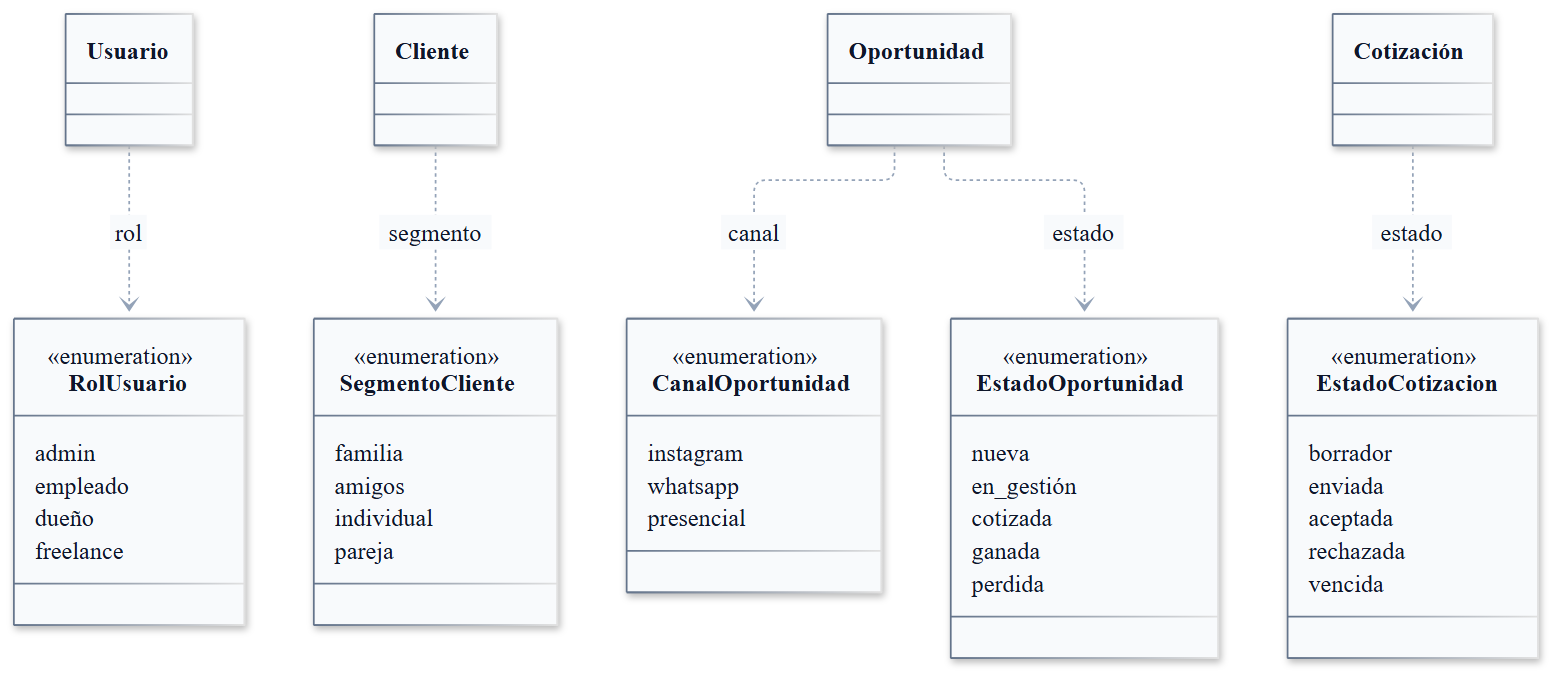
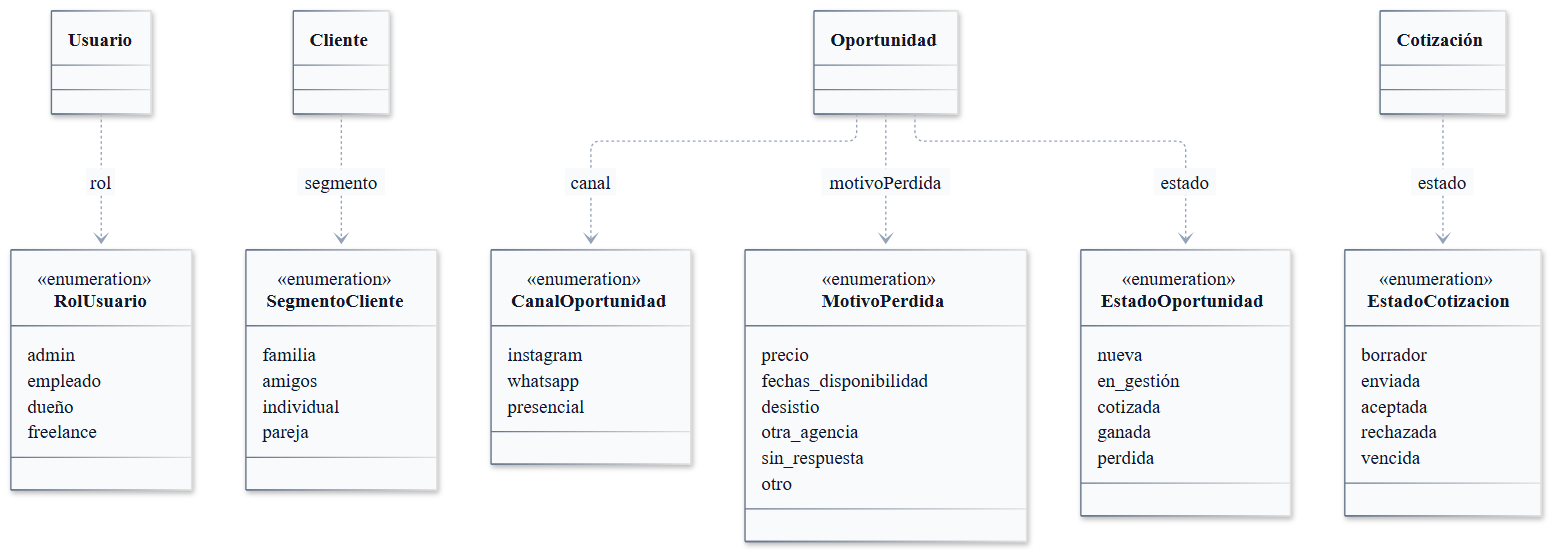
DEC-0013: notas y motivo de pérdida de la oportunidad, motivos de cancelación y de baja de reseña, tramo como origen de alerta

diff --git a/03-Dominio/Diagramas/DGM — Diagrama de clases.md b/03-Dominio/Diagramas/DGM — Diagrama de clases.md
@@ -65,6 +65,9 @@ classDiagram
         +Date fechaHastaTentativa
         +Int pasajeros
         +EstadoOportunidad estado
+        +MotivoPerdida motivoPerdida
+        +String motivoPerdidaDetalle
+        +String notas
     }
     class Cotizacion["Cotización"] {
         +UUID id
@@ -84,6 +87,8 @@ classDiagram
         +CategoriaViaje categoria
         +EstadoViaje estado
         +EstadoViaje estadoPrevio
+        +String motivoCancelacion
+        +Date fechaCancelacion
         +Moneda moneda
         +Decimal precioVenta
         +Decimal costo
@@ -151,6 +156,7 @@ classDiagram
         +String comentario
         +Date fecha
         +EstadoResena estado
+        +String motivoBaja
     }
 
     %% ======== Alertas y redes ========
@@ -202,6 +208,7 @@ classDiagram
     Pago "0..1" --> "0..*" Alerta : vencimiento
     Oportunidad "0..1" --> "0..*" Alerta : insistencia
     Cliente "0..1" --> "0..*" Alerta : recontacto
+    ViajeHotel "0..1" --> "0..*" Alerta : pago a proveedor
 ```
 
 ### Cómo leerlo
@@ -216,7 +223,7 @@ classDiagram
 
 ## Enumeraciones del dominio
 
-Las **19 enumeraciones** son parte del mismo modelo; se muestran en tres bandas agrupadas por módulo para que cada una entre legible en una hoja. La caja de la clase va **sin atributos** (ya están en la vista principal) y cada **dependencia punteada** indica qué atributo usa la enumeración. `Moneda` es la única compartida: la usan [[Viaje]], [[Cotización]] y [[Pago]].
+Las **20 enumeraciones** son parte del mismo modelo; se muestran en tres bandas agrupadas por módulo para que cada una entre legible en una hoja. La caja de la clase va **sin atributos** (ya están en la vista principal) y cada **dependencia punteada** indica qué atributo usa la enumeración. `Moneda` es la única compartida: la usan [[Viaje]], [[Cotización]] y [[Pago]].
 
 ### 1 · CRM y seguridad
 
@@ -264,9 +271,19 @@ classDiagram
         rechazada
         vencida
     }
+    class MotivoPerdida {
+        <<enumeration>>
+        precio
+        fechas_disponibilidad
+        desistio
+        otra_agencia
+        sin_respuesta
+        otro
+    }
     Usuario ..> RolUsuario : rol
     Cliente ..> SegmentoCliente : segmento
     Oportunidad ..> CanalOportunidad : canal
+    Oportunidad ..> MotivoPerdida : motivoPerdida
     Oportunidad ..> EstadoOportunidad : estado
     Cotizacion ..> EstadoCotizacion : estado
 ```
@@ -425,7 +442,7 @@ Se señalaron sin elegir una versión en silencio, según [[CLAUDE|CLAUDE.md#Ord
 
 1. ✅ **`Viaje`–`Pago` = `1..*`** (resuelto 21/09, Nahuel). **Todo `Viaje` tiene al menos un `Pago`.** Vale la nota de [[Viaje]], no el `||--o{` del [[DGM-ER]]: [[CU-07 Confirmar reserva]] es el **único** CU que crea un `Viaje` y encadena [[CU-10 Registrar economía del viaje|CU-10]] y [[CU-11 Definir plan de cuotas|CU-11]] como `<<include>>` (no está completo sin ellos); su postcondición exige el plan cargado, el estado inicial `reservado` se define como *"economía y plan cargados"*, y [[CU-11 Definir plan de cuotas|CU-11]] A2 cubre el mínimo (sin cuotas se crea igual un `Pago` de tipo `saldo` por el total). El hueco entre "se crea el viaje" y "se carga el plan" es **intra-transacción**, no un estado válido del dominio, que es lo que modela un diagrama de clases conceptual. → **Corregir [[DGM-ER]]:** `VIAJE ||--o{ PAGO` pasa a **`VIAJE ||--|{ PAGO`**. La obligatoriedad se hace cumplir en la lógica de aplicación (una FK no puede exigir "al menos una fila hija").
 2. ✅ **`Viaje`–`Alerta` = `0..1` → `0..*`** (resuelto 21/09, Nahuel). La nota de [[Viaje]] dice `1..*`, pero [[Alerta]] admite alertas que **no** cuelgan de un viaje (insistencia sobre [[Oportunidad]], recontacto sobre [[Cliente]], vencimiento sobre [[Pago]], y las `manual` sueltas de [[CU-28 Crear recordatorio manual]]). → **Corregir la nota de [[Viaje]]**.
-3. ✅ **Origen de la `Alerta` en el ER: cuatro FK nullable + CHECK** (resuelto 21/09, Nahuel). El [[DGM-ER]] declaraba **un solo** origen (`VIAJE ||--o{ ALERTA`), así que no había dónde guardar de qué [[Oportunidad]], [[Pago]] o [[Cliente]] venía una alerta. Se optó por que `ALERTA` lleve `viaje_id`, `pago_id`, `oportunidad_id` y `cliente_id` **nullable**, con un **CHECK de que a lo sumo una esté cargada** (ninguna si es `manual` suelta). Se descartó el origen polimórfico (`origen_tipo` + `origen_id`) porque **pierde la FK** y deja la integridad en la aplicación; con 4 orígenes cerrados, la tabla más ancha es un costo menor frente a la integridad referencial real de PostgreSQL. → **Ya propagado al [[DGM-ER]]**.
+3. ✅ **Origen de la `Alerta` en el ER: cuatro FK nullable + CHECK** (resuelto 21/09, Nahuel). El [[DGM-ER]] declaraba **un solo** origen (`VIAJE ||--o{ ALERTA`), así que no había dónde guardar de qué [[Oportunidad]], [[Pago]] o [[Cliente]] venía una alerta. Se optó por que `ALERTA` lleve `viaje_id`, `pago_id`, `oportunidad_id` y `cliente_id` **nullable**, con un **CHECK de que a lo sumo una esté cargada** (ninguna si es `manual` suelta). Se descartó el origen polimórfico (`origen_tipo` + `origen_id`) porque **pierde la FK** y deja la integridad en la aplicación; con 4 orígenes cerrados, la tabla más ancha es un costo menor frente a la integridad referencial real de PostgreSQL. → **Ya propagado al [[DGM-ER]]**. [[DEC-0013 Datos que faltaban en el ER|DEC-0013]] sumó un quinto origen, el tramo del itinerario (`viaje_hotel_id`), para la alerta de pago al proveedor.
 4. ✅ **`Cotización.items` queda como atributo `Lista`** (decidido 21/09, Nahuel): no se promueve a una 14.ª entidad `ItemCotizacion`. Si más adelante hacen falta reportes por concepto, se reabre.
 
 ## Pendientes
@@ -435,7 +452,7 @@ Se señalaron sin elegir una versión en silencio, según [[CLAUDE|CLAUDE.md#Ord
 - ✅ Lo resuelto el 21/09 ya está propagado a [[DGM-ER]] (`VIAJE ||--|{ PAGO` y los 4 orígenes de `ALERTA`) y a la nota de [[Viaje]].
 - ✅ El [[DGM-ER]] quedó **completo y coherente** con este diagrama el 21/09: sumó los atributos de las 14 tablas y las 4 relaciones que le faltaban (`USUARIO`–`ALERTA`, `USUARIO`–`CLIENTE`, `USUARIO`–`OPORTUNIDAD`, `DESTINO`–`REQUISITO_DESTINO`).
 - ✅ Auditoría (sync 29/09): `created_by`/`updated_by`/`created_at`/`updated_at` en **todas** las tablas de entidad (operativas y catálogos); no se dibujan para no multiplicar las líneas hacia `Usuario`. Ver [[DGM-ER]].
-- ⏳ [[DEC-0013 Datos que faltaban en el ER]] (29/09, a ratificar): `Pago.fechaCobro`, `Viaje.comisionTipo`, `Viaje.estadoPrevio`, `Usuario.activo`, `Usuario.accesoRedes` y la comisión por defecto del vendedor, con el nuevo enum `TipoComision`.
+- ⏳ [[DEC-0013 Datos que faltaban en el ER]] (29/09, a ratificar): `Pago.fechaCobro`, `Viaje.comisionTipo`, `Viaje.estadoPrevio`, `Usuario.activo`, `Usuario.accesoRedes`, la comisión por defecto del vendedor (enum `TipoComision`), `Oportunidad.notas` y `motivoPerdida` (enum `MotivoPerdida`), `Viaje.motivoCancelacion` y `fechaCancelacion`, `Reseña.motivoBaja` y el tramo (`ViajeHotel`) como quinto origen de la `Alerta`.
 - Renderizar el PNG (mermaid-cli, motor ELK) cuando el diagrama se incorpore a un entregable — ver [[Entregables — índice]].
 
 ## Relacionado

diff --git a/03-Dominio/Diagramas/DGM-ER.md b/03-Dominio/Diagramas/DGM-ER.md
@@ -59,6 +59,9 @@ erDiagram
         date fecha_hasta_tentativa "nullable"
         int pasajeros
         enum estado "nueva, en_gestion, cotizada, ganada, perdida"
+        enum motivo_perdida "nullable, precio, fechas_disponibilidad, desistio, otra_agencia, sin_respuesta, otro"
+        text motivo_perdida_detalle "nullable, si es otro"
+        text notas "nullable, seguimiento"
     }
     COTIZACION {
         uuid id PK
@@ -83,6 +86,8 @@ erDiagram
         enum categoria "grupal, individual"
         enum estado "reservado, vendido, confirmado, en_curso, finalizado, cancelado"
         enum estado_previo "nullable, solo si cancelado"
+        text motivo_cancelacion "nullable, solo si cancelado"
+        date fecha_cancelacion "nullable, solo si cancelado"
         enum moneda "ARS, USD, moneda de referencia"
         numeric precio_venta
         numeric costo "del operador"
@@ -156,6 +161,7 @@ erDiagram
         text comentario
         date fecha
         enum estado "publicada, oculta"
+        text motivo_baja "nullable, si oculta"
     }
     ALERTA {
         uuid id PK
@@ -164,6 +170,7 @@ erDiagram
         uuid pago_id FK "nullable, origen"
         uuid oportunidad_id FK "nullable, origen"
         uuid cliente_id FK "nullable, origen"
+        uuid viaje_hotel_id FK "nullable, origen"
         enum tipo "pago, formulario, salida, insistencia, reseña, manual, recontacto, viaje"
         date fecha
         enum estado "pendiente, vista, resuelta"
@@ -212,17 +219,18 @@ erDiagram
     PAGO |o--o{ ALERTA : vence
     OPORTUNIDAD |o--o{ ALERTA : insistencia
     CLIENTE |o--o{ ALERTA : recontacto
+    VIAJE_HOTEL |o--o{ ALERTA : pago_proveedor
 ```
 
 ## Notas del modelo
 
 - **`VIAJE ||--|{ PAGO` — todo viaje tiene al menos un pago** (resuelto 21/09, ver [[DGM — Diagrama de clases]]). [[CU-07 Confirmar reserva]] es el único CU que crea un `VIAJE` e incluye (`<<include>>`) [[CU-11 Definir plan de cuotas]], y aun sin cuotas se crea un `PAGO` de tipo `saldo` (A2). ⚠ Una FK no puede exigir "al menos una fila hija": la obligatoriedad la hace cumplir la **lógica de aplicación**, no el motor.
-- **`ALERTA` tiene cuatro orígenes posibles y excluyentes** (resuelto 21/09): `viaje_id`, `pago_id`, `oportunidad_id` y `cliente_id`, **las cuatro nullable**, con un **CHECK de que a lo sumo una esté cargada** — ninguna cuando es una alerta `manual` suelta ([[CU-28 Crear recordatorio manual]]). Se descartó el origen polimórfico (`origen_tipo` + `origen_id`) porque pierde la integridad referencial; con 4 orígenes cerrados, la tabla más ancha es un costo menor.
+- **`ALERTA` tiene cinco orígenes posibles y excluyentes** (resuelto 21/09; el quinto, `viaje_hotel_id`, lo sumó [[DEC-0013 Datos que faltaban en el ER|DEC-0013]] para la alerta de pago al proveedor de cada tramo): `viaje_id`, `pago_id`, `oportunidad_id`, `cliente_id` y `viaje_hotel_id`, **todas nullable**, con un **CHECK de que a lo sumo una esté cargada** — ninguna cuando es una alerta `manual` suelta ([[CU-28 Crear recordatorio manual]]). Se descartó el origen polimórfico (`origen_tipo` + `origen_id`) porque pierde la integridad referencial; con 5 orígenes cerrados, la tabla más ancha es un costo menor.
 - **`USUARIO` aparece cinco veces** (`responsable` de viaje y de oportunidad, `vendedor`, `asesor_asignado`, `propietario` de alerta): es lo que implementa el modelo de visibilidad *lectura global + propiedad* de [[DEC-0005 Autenticación y modelo de roles]] y la restricción del rol `freelance` de [[DEC-0008 Autenticación propia y rol de vendedor freelance]].
 - **Auditoría:** [[DEC-0008 Autenticación propia y rol de vendedor freelance]] exige registrar **autor y fecha** de las acciones. **Decidido en la sync del 29/09:** `created_by` / `updated_by` (FK a `USUARIO`) y `created_at` / `updated_at` van en **todas las tablas de entidad**, operativas y catálogos (las 13 entidades; la tabla asociativa `VIAJE_HOTEL` hereda la auditoría de `VIAJE`). No se dibujan en el diagrama para no multiplicar las líneas hacia `USUARIO`. **`created_by` y `updated_by` son nullable** (aprobado el 29/09): lo que hace el proceso automático diario los deja **vacíos**, y un autor vacío se lee como «lo hizo el sistema». `created_at` y `updated_at` siempre se cargan.
 - `VIAJE.destino_id` y `HOTEL.destino_id` son FK a `DESTINO` (antes texto libre): ver [[DEC-0006 Destino como entidad de catálogo]]. `OPORTUNIDAD.destino_consultado` sigue siendo **texto libre** y se normaliza recién al derivar en `VIAJE`.
 - `VIAJE` suma `operador_id`, `vendedor_id`, `moneda`, `costo`, `ganancia`, `margen` y `comision_vendedor` — ver [[DEC-0007 Modelo económico — ganancia, margen y comisión de vendedor]] y [[DEC-0009 Operador-Proveedor como entidad de catálogo]] (sync 17/09). `ganancia` y `margen` son **calculados**: se pueden materializar como columnas generadas o resolver en la vista.
-- **Datos sumados al escribir el SQL** ([[DEC-0013 Datos que faltaban en el ER]], 29/09, a ratificar): `PAGO.fecha_cobro`; `VIAJE.comision_tipo` (`importe` o `porcentaje`) y `VIAJE.estado_previo` (para revertir una cancelación); en `USUARIO`, `activo` (baja lógica), `acceso_redes` y la comisión por defecto del vendedor (`comision_default_tipo` y `comision_default_valor`); y la tabla **`CONFIGURACION`**, de una sola fila, con los parámetros que edita `admin` (vigencia de la cotización, anticipación de la alerta `salida` y plazo del recontacto). `CONFIGURACION` es una tabla de parámetros, no una entidad del dominio, y no se relaciona con las demás. Con ella el esquema tiene **15 tablas**.
+- **Datos sumados al escribir el SQL** ([[DEC-0013 Datos que faltaban en el ER]], 29/09, a ratificar): `PAGO.fecha_cobro`; `VIAJE.comision_tipo` (`importe` o `porcentaje`), `VIAJE.estado_previo` (para revertir una cancelación), `VIAJE.motivo_cancelacion` y `fecha_cancelacion`; en `OPORTUNIDAD`, `notas` y el motivo de pérdida (lista fija más detalle si es `otro`); `RESENA.motivo_baja`; `ALERTA.viaje_hotel_id` como quinto origen; en `USUARIO`, `activo` (baja lógica), `acceso_redes` y la comisión por defecto del vendedor (`comision_default_tipo` y `comision_default_valor`); y la tabla **`CONFIGURACION`**, de una sola fila, con los parámetros que edita `admin` (vigencia de la cotización, anticipación de la alerta `salida` y plazo del recontacto). `CONFIGURACION` es una tabla de parámetros, no una entidad del dominio, y no se relaciona con las demás. Con ella el esquema tiene **15 tablas**.
 - `COTIZACION.items` se modela como **`jsonb`**, no como tabla propia: decidido el 21/09 no promoverlo a entidad ([[DGM — Diagrama de clases]], punto 4). Si más adelante hacen falta reportes por concepto, se reabre.
 - Relación N:M `VIAJE`–`HOTEL` y objeto de la `RESENA` (Hotel + Cliente, con Viaje opcional): ver [[DEC-0003 Relación Viaje–Hotel y Reseña]].
 

diff --git a/05-Diseño/Datos/Modelo de datos SQL.md b/05-Diseño/Datos/Modelo de datos SQL.md
@@ -14,18 +14,18 @@ tags:: #tipo/analisis #estado/borrador #pc/pc1
 
 ## Qué contiene
 - **15 tablas:** las 13 entidades del dominio, la tabla asociativa `viaje_hotel` y la tabla de parámetros `configuracion` (una sola fila, [[DEC-0013 Datos que faltaban en el ER|DEC-0013]]), con los mismos nombres del [[DGM-ER]] en minúscula.
-- **19 enumeraciones nativas** (`CREATE TYPE … AS ENUM`), con los valores del ER.
+- **20 enumeraciones nativas** (`CREATE TYPE … AS ENUM`), con los valores del ER.
 - **Claves:** toda clave primaria es `uuid` con `gen_random_uuid()`, que viene incluida en PostgreSQL 13 o superior sin extensiones.
 - **Auditoría** ([[DEC-0008 Autenticación propia y rol de vendedor freelance|DEC-0008]]): las 13 tablas de entidad y `configuracion` llevan `created_by`, `updated_by`, `created_at` y `updated_at`. `created_by` y `updated_by` son **nullable**: vacío significa «lo hizo el proceso automático». `viaje_hotel` no las lleva porque hereda la auditoría del viaje. Las completa `core.db` en la API ([[ARQ — Vista general]]).
 - **Restricciones del modelo:**
-  - `alerta`: a lo sumo un origen (`viaje_id`, `pago_id`, `oportunidad_id` o `cliente_id`); ninguno en una alerta manual suelta.
+  - `alerta`: a lo sumo uno de sus cinco orígenes (`viaje_id`, `pago_id`, `oportunidad_id`, `cliente_id` o `viaje_hotel_id`); ninguno en una alerta manual suelta.
   - `viaje_hotel`: `id` propio, índice **no único** en `(viaje_id, hotel_id)` y **único** en `(viaje_id, orden)`, porque el mismo hotel puede aparecer en dos tramos del mismo viaje ([[DEC-0003 Relación Viaje–Hotel y Reseña|DEC-0003]]).
   - `viaje.oportunidad_id` es único: una oportunidad deriva en a lo sumo un viaje.
   - `viaje.ganancia` y `viaje.margen` son **columnas calculadas** (`precio_venta − costo` y `ganancia / precio_venta`, [[DEC-0007 Modelo económico — ganancia, margen y comisión de vendedor|DEC-0007]]).
-  - Comisión ([[DEC-0013 Datos que faltaban en el ER|DEC-0013]]): si es `porcentaje`, no pasa de 100; en `usuario`, el tipo y el valor por defecto van juntos o no van.
+  - Comisión: si es `porcentaje`, no pasa de 100; en `usuario`, el tipo y el valor por defecto van juntos o no van.
+  - Estados con datos propios: una `oportunidad` `perdida` exige su motivo; un `viaje` `cancelado` exige estado previo, motivo y fecha de cancelación (y fuera de ese estado los tres quedan vacíos); una `resena` `oculta` exige el motivo de la baja.
   - `configuracion` admite una sola fila (`id = 1`).
-  - `viaje.estado_previo` solo tiene valor mientras el viaje está `cancelado` (para revertir la cancelación, CU-27 A3).
-  - Chequeos de sentido común: fechas de regreso, salida y check-out que no quedan antes de las de inicio; puntaje de reseña de 1 a 5; montos no negativos; al menos un pasajero.
+  - Chequeos de sentido común: fechas de regreso y de check-out que no quedan antes de las de inicio, puntaje de reseña de 1 a 5, montos no negativos y al menos un pasajero.
 - **Bajas lógicas:** ninguna FK borra en cascada, porque en Rumbo nada se elimina físicamente.
 
 ## Lo que queda en la API y no en la base
@@ -38,9 +38,9 @@ tags:: #tipo/analisis #estado/borrador #pc/pc1
 - Largos de `varchar` y precisión de `numeric` (`numeric(14,2)` para importes y `numeric(14,4)` para el tipo de cambio) son decisiones de implementación, no datos del negocio.
 
 ## Validación
-Se validó el 29/09/26 en un **PostgreSQL 18.3** local, en un clúster temporal creado solo para la prueba y borrado al terminar. El script corre completo sin errores y deja 15 tablas y 19 enumeraciones, con la fila de `configuracion` cargada con los valores validados con la agencia (1 mes, 7 días y 6 meses). Además se probaron, dentro de una transacción que se deshizo:
-- **Casos permitidos:** un usuario con `created_by` vacío, el mismo hotel en dos tramos del mismo viaje, una alerta manual sin origen el cálculo de `ganancia` (250.000) y `margen` (0,25) para una venta de $ 1.000.000 con costo de $ 750.000, y la cancelación de un viaje guardando su `estado_previo`.
-- **Casos rechazados, como se esperaba:** una alerta con dos orígenes, un `orden` repetido en el mismo viaje, dos viajes desde la misma oportunidad, un puntaje de 6, un regreso anterior a la salida, un valor de enum inexistente, un email de usuario repetido una FK a un cliente inexistente, una segunda fila de `configuracion`, una comisión de viaje mayor al 100 % una comisión por defecto con tipo pero sin valor y un viaje `cancelado` sin `estado_previo`.
+Se validó el 29/09/26 en un **PostgreSQL 18.3** local, en un clúster temporal creado solo para la prueba y borrado al terminar. El script corre completo sin errores y deja 15 tablas y 20 enumeraciones, con la fila de `configuracion` cargada con los valores validados con la agencia (1 mes, 7 días y 6 meses). Además se probaron 20 casos dentro de una transacción que se deshizo al final:
+- **6 permitidos:** un usuario con `created_by` vacío; el mismo hotel en dos tramos del mismo viaje; una alerta manual sin origen; una alerta de pago al proveedor colgada del tramo; el cálculo de `ganancia` (250.000) y `margen` (0,25) para una venta de $ 1.000.000 con costo de $ 750.000; y la cancelación de un viaje con estado previo, motivo y fecha.
+- **14 rechazados, como se esperaba:** una alerta con dos orígenes; otra con viaje y tramo a la vez; un `orden` repetido en el mismo viaje; dos viajes desde la misma oportunidad; un puntaje de 6; un regreso anterior a la salida; un valor de enum inexistente; un email de usuario repetido; una FK a un cliente inexistente; una segunda fila de `configuracion`; una comisión de viaje mayor al 100 %; una comisión por defecto con tipo pero sin valor; un viaje `cancelado` sin estado previo; y una oportunidad `perdida` sin motivo.
 
 Para repetir la prueba sobre una base vacía:
 ```bash

diff --git a/05-Diseño/Decisiones/DEC-0013 Datos que faltaban en el ER.md b/05-Diseño/Decisiones/DEC-0013 Datos que faltaban en el ER.md
@@ -14,13 +14,16 @@ tags:: #tipo/decision #estado/en-revision #pc/pc1
 > ⏳ **Aprobada por Nahuel el 29/09/26**, al escribir el script SQL (F2) y el contrato OpenAPI (F1). Se ratifica con el equipo en el cierre del día 2 (A6), junto con ARQ.
 
 ## Contexto
-Al pasar el [[DGM-ER]] a SQL y al derivar los endpoints aparecieron seis datos que los casos de uso y las decisiones ya piden, pero que el ER no tenía dónde guardar:
+Al pasar el [[DGM-ER]] a SQL y al derivar los endpoints aparecieron nueve datos que los casos de uso y las decisiones ya piden, pero que el ER no tenía dónde guardar:
 1. [[CU-12 Registrar cobro de un pago|CU-12]] pide la **fecha efectiva del cobro**, y `PAGO` no tenía esa columna.
 2. La **vigencia de la cotización** (1 mes), la **anticipación de la alerta `salida`** (7 días) y el **plazo del recontacto** (6 meses) son configurables por `admin` ([[CU-06 Emitir cotización|CU-06]], [[CU-07 Confirmar reserva|CU-07]], [[CU-30 Sugerir recontacto de clientes|CU-30]]), pero no había tabla de parámetros.
 3. La comisión del vendedor es **importe o porcentaje**, con **default por vendedor** y override por viaje ([[DEC-0007 Modelo económico — ganancia, margen y comisión de vendedor|DEC-0007]], [[CU-13 Configurar porcentaje de comisión|CU-13]]), pero el ER solo tenía `VIAJE.comision_vendedor` como número, sin tipo y sin default en `USUARIO`.
 4. El **acceso al módulo de redes** es una capacidad que asigna `admin` ([[DEC-0005 Autenticación y modelo de roles|DEC-0005]]), pero `USUARIO` no tenía dónde guardarla.
 5. [[CU-25 Gestionar usuarios y roles|CU-25]] A3 pide la **baja lógica de un usuario**, pero `USUARIO` no tenía un campo `activo`.
 6. [[CU-27 Cancelar viaje|CU-27]] A3: al revertir una cancelación, el viaje **vuelve al estado que tenía antes de cancelarse**, pero `VIAJE` no lo guardaba.
+7. Los requisitos de [[CU-04 Registrar consulta|CU-04]] y [[CU-05 Seguir oportunidad|CU-05]] piden guardar las **notas** de la consulta y del seguimiento, y `OPORTUNIDAD` no tenía dónde.
+8. Tres requisitos piden guardar un **motivo**: el de pérdida de la `Oportunidad` (lista fija), el de cancelación del `Viaje` (con su fecha, [[CU-27 Cancelar viaje|CU-27]]) y el de baja de una `Reseña` ([[CU-29 Eliminar reseña|CU-29]]). Ninguno estaba en el ER.
+9. En [[CU-09 Armar itinerario de hoteles|CU-09]], cada tramo puede tener su alerta de pago al proveedor, y al editar o pagar el tramo se cierra «su» alerta. Como `ALERTA` solo podía colgar del viaje, con dos tramos no se sabía cuál era cuál.
 
 ## Decisión
 1. **`PAGO.fecha_cobro`** (`date`, nullable): se carga al cobrar, junto con `forma_pago` y `moneda_pago`, y se borra si se revierte el cobro.
@@ -29,6 +32,9 @@ Al pasar el [[DGM-ER]] a SQL y al derivar los endpoints aparecieron seis datos q
 4. **`USUARIO.acceso_redes`** (`boolean`, default `false`). `admin` y `dueño` tienen acceso por su rol, sin importar el valor.
 5. **`USUARIO.activo`** (`boolean`, default `true`), como en `DESTINO` y `OPERADOR`. Un usuario inactivo no puede iniciar sesión.
 6. **`VIAJE.estado_previo`** (enum `estado_viaje`, nullable): se carga al cancelar y se vacía al revertir. Solo tiene valor mientras el viaje está `cancelado`. Se descartó deducir el estado a partir de los cobros y las fechas porque es más frágil.
+7. **`OPORTUNIDAD.notas`** (`text`, nullable): una bitácora libre que se va editando. Se descartó una tabla de interacciones porque sumaba una entidad nueva a días del PC1; queda como mejora posible.
+8. **Motivos:** `OPORTUNIDAD.motivo_perdida` (nuevo enum `motivo_perdida`: `precio`, `fechas_disponibilidad`, `desistio`, `otra_agencia`, `sin_respuesta`, `otro`) y `motivo_perdida_detalle` (texto, si es `otro`); `VIAJE.motivo_cancelacion` y `fecha_cancelacion`; `RESENA.motivo_baja`. Todos nullable y cargados solo en el estado que corresponde.
+9. **`ALERTA.viaje_hotel_id`** (nullable) como **quinto origen**; el CHECK pasa a «a lo sumo uno de cinco».
 
 ## Alternativas consideradas
 | Opción | Pros | Contras | ¿Elegida? |
@@ -39,9 +45,9 @@ Al pasar el [[DGM-ER]] a SQL y al derivar los endpoints aparecieron seis datos q
 | Guardar siempre la comisión como importe ya calculado | Más simple | Se pierde qué porcentaje se aplicó | ❌ |
 
 ## Impacto
-- [[DGM-ER]], [[DGM — Diagrama de clases]] (nuevo enum `TipoComision`: son 19) y las notas de [[Pago]], [[Usuario]] y [[Viaje]].
-- [[Modelo de datos SQL]]: pasa a 15 tablas y 19 enumeraciones.
-- Contrato OpenAPI (F1): los esquemas de `Viaje` y `Pago` y los endpoints de configuración.
+- [[DGM-ER]], [[DGM — Diagrama de clases]] (nuevos enums `TipoComision` y `MotivoPerdida`: son 20) y las notas de [[Pago]], [[Usuario]], [[Viaje]], [[Oportunidad]], [[Reseña]] y [[Alerta]].
+- [[Modelo de datos SQL]]: pasa a 15 tablas y 20 enumeraciones.
+- [[Contrato de la API (OpenAPI)]]: los esquemas del circuito de CU-01 y los endpoints de configuración, baja de usuarios, pérdida de oportunidades y cancelación de viajes.
 
 ## Decisores y fecha
 - Nahuel — aprobada el 29/09/26; a ratificar con el equipo.

diff --git a/00-Inicio/Estado del proyecto.md b/00-Inicio/Estado del proyecto.md
@@ -68,7 +68,7 @@ Los tres tomamos **los tres roles** (Coordinador de vault · Guardián del domin
 - ✅ **Arquitectura en tres capas + `core`** (A3, Nahuel): ver *Vista lógica del backend* en [[ARQ — Vista general]].
 - ✅ **Auditoría del proceso automático** (aprobado 29/09, Nahuel con el equipo): lo que hace `jobs.diario` queda con `created_by`/`updated_by` **vacíos** (= «lo hizo el sistema»), así que esas columnas son **nullable** en el script SQL (F2). ✅ Anotado en [[DGM-ER]] junto a la nota de auditoría.
 - ✅ **Ajustes del túnel** (aprobado 29/09): ✅ aplicados en [[DEC-0011 Infraestructura de despliegue on-premise]] y en la vista de despliegue de ARQ (PNG regenerado): (1) quinto contenedor `cloudflared` en el Compose, con el token en el `.env` del servidor; (2) riesgo aceptado: Cloudflare termina el TLS y ve el tráfico descifrado; (3) **todos** los usuarios, también desde la red local, entran por la URL del túnel (la entrada local directa queda solo como respaldo si se cae internet).
-- ⏳ **[[DEC-0013 Datos que faltaban en el ER]]** (aprobada por Nahuel el 29/09 al escribir F2; **a ratificar en A6**): `Pago.fecha_cobro`, tabla `configuracion` de una fila (vigencia de cotización, anticipación de `salida` y recontacto), comisión con tipo (`importe`/`porcentaje`) y default por vendedor en `Usuario`, `Usuario.acceso_redes`, `Usuario.activo` (baja lógica) y `Viaje.estado_previo` (revertir una cancelación). Ya propagada a ER, clases, entidades y SQL.
+- ⏳ **[[DEC-0013 Datos que faltaban en el ER]]** (aprobada por Nahuel el 29/09 al escribir F2; **a ratificar en A6**): `Pago.fecha_cobro`, tabla `configuracion` de una fila (vigencia de cotización, anticipación de `salida` y recontacto), comisión con tipo (`importe`/`porcentaje`) y default por vendedor en `Usuario`, `Usuario.acceso_redes`, `Usuario.activo` (baja lógica), `Viaje.estado_previo` (revertir una cancelación), `Oportunidad.notas`, los motivos de pérdida, cancelación y baja de reseña, y el tramo del itinerario como quinto origen de la `Alerta`. Ya propagada a ER, clases, entidades y SQL.
 
 ### Día 1 — mié 30/09: construir las bases
 - **Nahuel:** A2 (vista de despliegue con DEC-0011) → A3 (vista lógica del backend) → **F2** script SQL validado contra un PostgreSQL local.

diff --git a/00-Inicio/Bitácora de sesiones.md b/00-Inicio/Bitácora de sesiones.md
@@ -31,8 +31,8 @@ Es **obligatorio** nombrar a la persona que hizo la sesión.
 ```
 
 ## 29/09/26 — Nahuel (Claude Opus 5.5) — DEC-0013: datos que faltaban en el ER
-- **Hecho:** Al preparar F2 y F1 aparecieron seis datos que los CU piden y el ER no guardaba. Nahuel aprobó las seis propuestas y quedaron en [[DEC-0013 Datos que faltaban en el ER]] (`en-revision`, a ratificar en A6): `PAGO.fecha_cobro`, tabla `CONFIGURACION` de una fila (1 mes, 7 días y 6 meses), comisión con `tipo_comision` en `VIAJE` y default por vendedor en `USUARIO`, `USUARIO.acceso_redes`, `USUARIO.activo` y `VIAJE.estado_previo`. Propagado a [[DGM-ER]], [[DGM — Diagrama de clases]] (19 enums), [[Pago]], [[Usuario]], [[Viaje]], ARQ y [[Modelo de datos SQL]].
-- **Verificado:** PNG de clases y ER regenerados; el script vuelve a correr en PostgreSQL 18.3 (15 tablas, 19 enums) y pasan 16 casos de prueba (4 permitidos y 12 rechazados).
+- **Hecho:** Al preparar F2 y F1 aparecieron nueve datos que los CU y los RF piden y el ER no guardaba. Nahuel aprobó las nueve propuestas y quedaron en [[DEC-0013 Datos que faltaban en el ER]] (`en-revision`, a ratificar en A6): `PAGO.fecha_cobro`, tabla `CONFIGURACION` de una fila (1 mes, 7 días y 6 meses), comisión con `tipo_comision` en `VIAJE` y default por vendedor en `USUARIO`, `USUARIO.acceso_redes`, `USUARIO.activo`, `VIAJE.estado_previo`, `OPORTUNIDAD.notas`, los motivos de pérdida (enum), cancelación y baja de reseña, y `ALERTA.viaje_hotel_id` como quinto origen. Propagado a [[DGM-ER]], [[DGM — Diagrama de clases]] (20 enums), las entidades [[Pago]], [[Usuario]], [[Viaje]], [[Oportunidad]], [[Reseña]] y [[Alerta]], ARQ y [[Modelo de datos SQL]].
+- **Verificado:** PNG de clases y ER regenerados; el script vuelve a correr en PostgreSQL 18.3 (15 tablas, 20 enums) y pasan 20 casos de prueba (6 permitidos y 14 rechazados).
 
 ## 29/09/26 — Nahuel (Claude Opus 5.5) — F2: script SQL
 - **Hecho:** `05-Diseño/Datos/rumbo.sql` con las 14 tablas y los 18 enums del [[DGM-ER]], `gen_random_uuid()`, auditoría nullable, el CHECK de origen de `alerta`, la unicidad de `viaje_hotel` y `ganancia`/`margen` como columnas calculadas. Nota índice: [[Modelo de datos SQL]].

diff --git a/03-Dominio/MOC — Modelo de dominio.md b/03-Dominio/MOC — Modelo de dominio.md
@@ -16,7 +16,7 @@ tags:: #tipo/diagrama #tipo/modulo #estado/en-revision #pc/pc1
 [[Usuario]] · [[Cliente]] · [[Oportunidad]] · [[Viaje]] · [[Pago]] · [[Hotel]] · [[Reseña]] · [[Alerta]] · [[Cotización]] · [[ContenidoRed]] · [[Destino]] · [[RequisitoDestino]] · [[Operador]] ⚠(nueva 17/09, [[DEC-0009 Operador-Proveedor como entidad de catálogo]])
 
 ## Diagrama de clases
-- Ver [[DGM — Diagrama de clases]] (vista principal + las 19 enumeraciones). **El borrador que vivía acá se movió a esa nota el 21/09**, para que este MOC quede corto y haya una sola fuente del diagrama.
+- Ver [[DGM — Diagrama de clases]] (vista principal + las 20 enumeraciones). **El borrador que vivía acá se movió a esa nota el 21/09**, para que este MOC quede corto y haya una sola fuente del diagrama.
 - Cambios respecto del borrador: los FK dejan de listarse como atributos (los expresan las asociaciones), las enumeraciones pasan a clases `<<enumeration>>` y `viaje_hotel` se promueve a la clase asociativa `ViajeHotel`. Detalle y motivo en la sección *Convenciones de lectura* de esa nota.
 - Las **4 incoherencias detectadas las resolvió Nahuel el 21/09** (ratificadas en la sync del 29/09) y ya están propagadas a [[DGM-ER]] y a la nota de [[Viaje]]: `Viaje`–`Pago` es **`1..*`** (todo viaje tiene al menos un pago: [[CU-07 Confirmar reserva]] incluye [[CU-11 Definir plan de cuotas|CU-11]]), `Viaje`–`Alerta` es **`0..1` → `0..*`**, el **origen de la `Alerta`** en el ER se modela con **cuatro FK nullable + CHECK** (no polimórfico), y `Cotización.items` **queda como atributo**, sin entidad propia.
 - ✅ El [[DGM-ER]] quedó **completo** el 21/09: atributos de las 14 tablas y las 4 relaciones que le faltaban (`USUARIO`–`ALERTA`, `USUARIO`–`CLIENTE`, `USUARIO`–`OPORTUNIDAD`, `DESTINO`–`REQUISITO_DESTINO`). Los dos diagramas usan el motor **ELK** (líneas rectas ortogonales).

diff --git a/03-Dominio/Entidades/Viaje.md b/03-Dominio/Entidades/Viaje.md
@@ -23,6 +23,7 @@ Reserva concreta de un cliente: destino, fechas, categoría, estado y control ec
 | categoria | Enum | `grupal · individual` — `grupal` = salida grupal; `individual` = el resto. Enum cerrado el 29/09 con los dos valores del relevamiento: el tipo de producto (crucero, nacional…) se registra en [[Destino]] y el perfil del cliente en su segmento y etiquetas ([[Cliente]]) |
 | estado | Enum | `reservado` (aceptó cotización; economía y plan cargados, sin cobros) · `vendido` (primer cobro: la seña, o la primera cuota si no hay seña) · `confirmado` (pagó el total) · `en curso` (inició por fecha) · `finalizado` (terminó) · `cancelado` (baja, [[CU-27 Cancelar viaje]]). Transiciones: `reservado → vendido` la dispara el **cobro de la seña** y `vendido → confirmado` el **pago total** ([[CU-12 Registrar cobro de un pago]]); `en curso`/`finalizado` van por **fecha** (sugeridas, confirma el empleado — [[CU-08 Gestionar estado del viaje]]) |
 | estado_previo | Enum (opcional) | Estado que tenía el viaje **antes de cancelarse**; se carga al cancelar y se vacía al revertir ([[CU-27 Cancelar viaje|CU-27]] A3) — [[DEC-0013 Datos que faltaban en el ER|DEC-0013]] |
+| motivo_cancelacion / fecha_cancelacion | Texto + Date (opcionales) | Motivo y fecha de la cancelación; solo con el viaje `cancelado` ([[CU-27 Cancelar viaje|CU-27]]) — [[DEC-0013 Datos que faltaban en el ER|DEC-0013]] |
 | moneda | Enum | **Moneda de la operación** (ARS / USD) — multimoneda ([[DEC-0007 Modelo económico — ganancia, margen y comisión de vendedor]]) |
 | precioVenta | Decimal | Precio al cliente (en `moneda`) |
 | costo | Decimal | **Costo del operador/proveedor** (en `moneda`). Renombra `costoNeto` — [[DEC-0007 Modelo económico — ganancia, margen y comisión de vendedor]] |

diff --git a/03-Dominio/Entidades/Oportunidad.md b/03-Dominio/Entidades/Oportunidad.md
@@ -23,6 +23,8 @@ Representa una **consulta / lead**: el interés de un cliente en un viaje antes 
 | fechas | Rango | Fechas tentativas |
 | pasajeros | Int | Cantidad |
 | estado | Enum | `nueva` (recibida, sin atender) · `en_gestión` (se está atendiendo/asesorando, antes de cotizar) · `cotizada` (cotización enviada) · `ganada` · `perdida` |
+| motivo_perdida / motivo_perdida_detalle | Enum + Texto (opcionales) | Motivo al cerrar `perdida`, de una lista fija: `precio · fechas_disponibilidad · desistio · otra_agencia · sin_respuesta · otro`; el detalle es texto libre si es `otro` ([[CU-05 Seguir oportunidad|CU-05]] A2) — [[DEC-0013 Datos que faltaban en el ER|DEC-0013]] |
+| notas | Texto (opcional) | Notas de la consulta y del seguimiento: qué se habló y los próximos pasos ([[CU-04 Registrar consulta|CU-04]], [[CU-05 Seguir oportunidad|CU-05]]) — [[DEC-0013 Datos que faltaban en el ER|DEC-0013]] |
 | responsable | FK → [[Usuario]] | Empleado que registró/sigue la consulta; define la vista "mis oportunidades". Ver [[DEC-0005 Autenticación y modelo de roles]] |
 
 ## Relaciones

diff --git a/03-Dominio/Entidades/Alerta.md b/03-Dominio/Entidades/Alerta.md
@@ -23,6 +23,7 @@ Recordatorio automático para no perder vencimientos ni tareas: pagos, formulari
 | estado | Enum | pendiente · vista · resuelta |
 | propietario | FK → [[Usuario]] | Quien la recibe/creó; define la agenda personal. Ver [[DEC-0005 Autenticación y modelo de roles]] |
 | cerrada_por_cancelacion | Boolean | `true` si la resolvió la cancelación del [[Viaje]] ([[CU-27 Cancelar viaje]] paso 4). Al revertir la cancelación (A3) se reabren **solo** las alertas con esta marca, y la marca se limpia. Default `false` |
+| origen | FK opcional, a lo sumo una | [[Viaje]], [[Pago]], [[Oportunidad]], [[Cliente]] o **tramo del itinerario** (`viaje_hotel`, para la alerta de pago al proveedor de [[CU-09 Armar itinerario de hoteles|CU-09]]); ninguna en una `manual` suelta — [[DEC-0013 Datos que faltaban en el ER|DEC-0013]] |
 
 ## Relaciones
 - *..1 con [[Viaje]] (o [[Oportunidad]] para insistencia, [[Pago]] para vencimientos)
